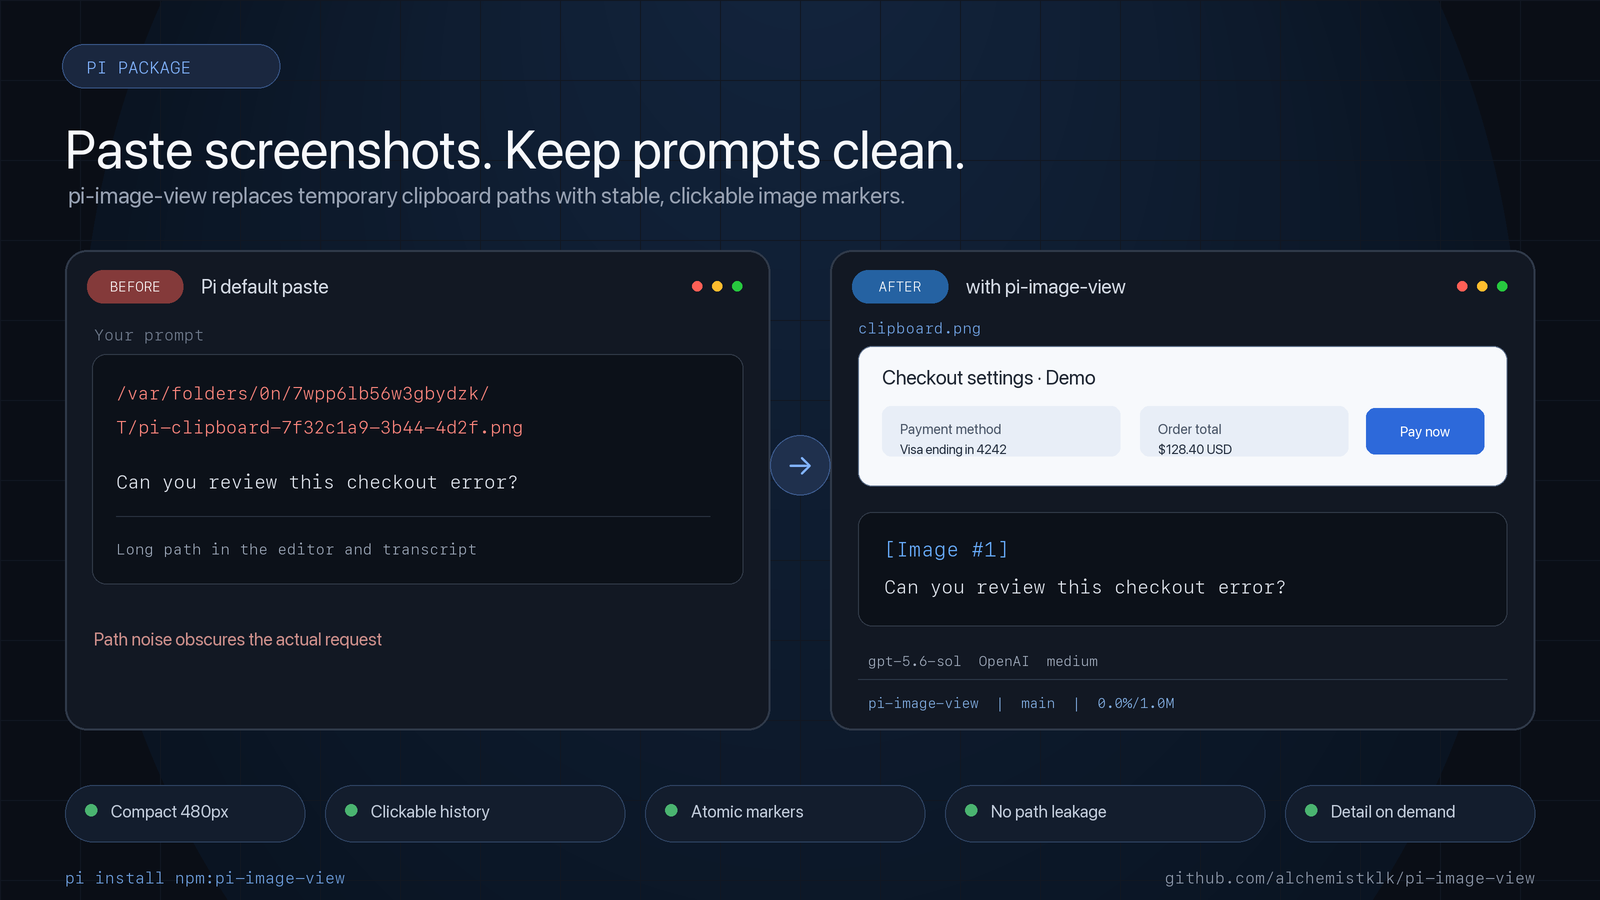
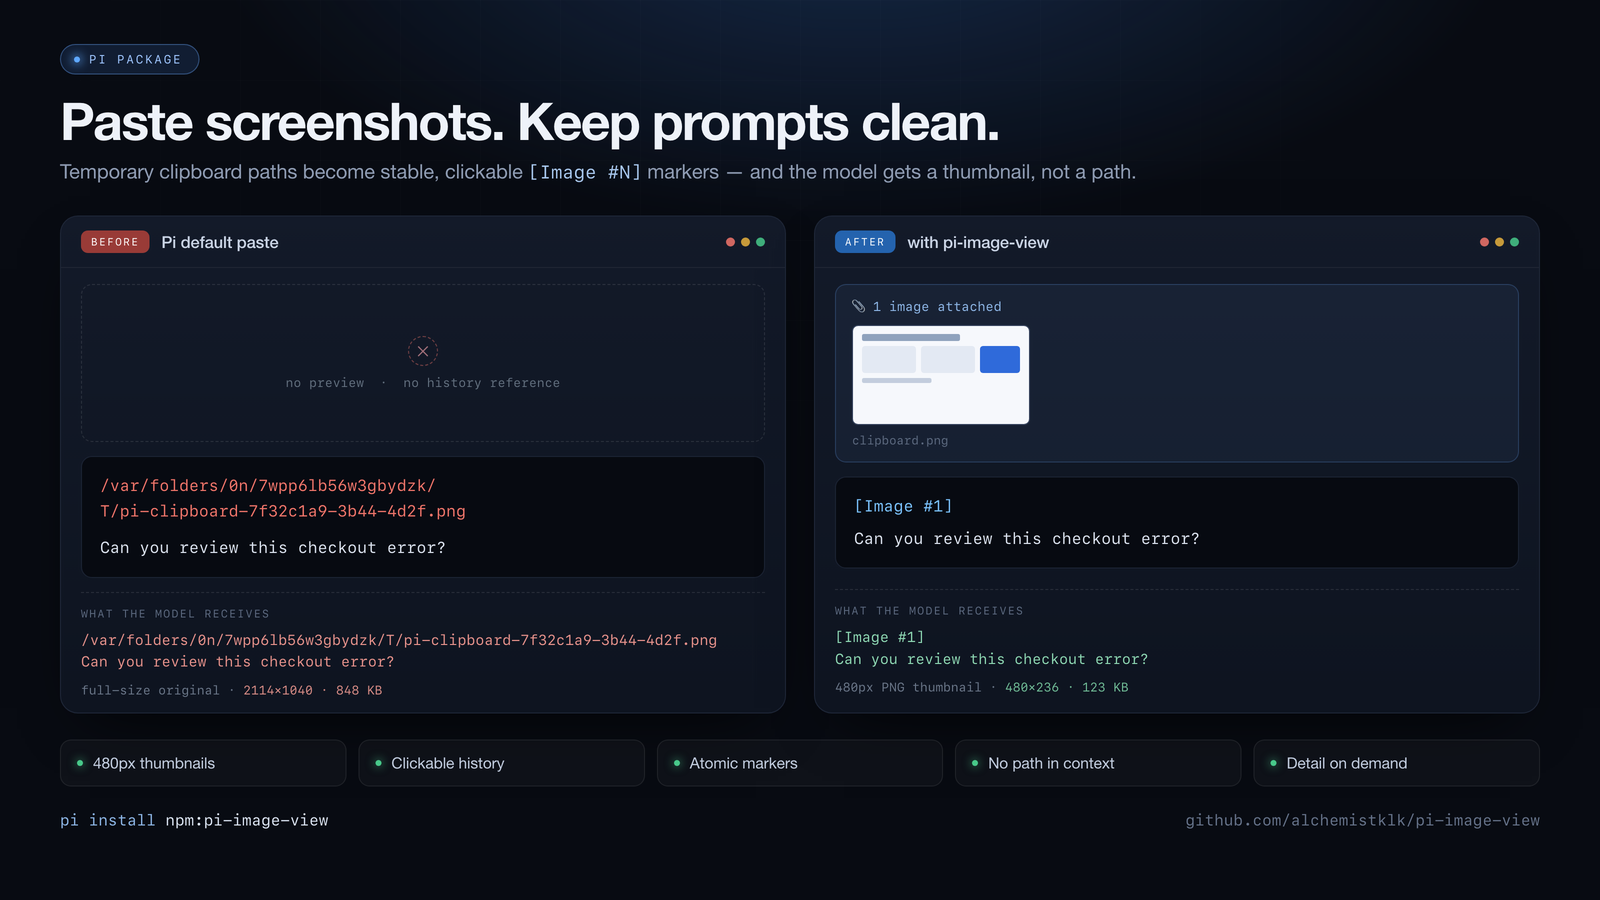
docs: rebuild the gallery image from an HTML card
Three follow-ups from reviewing #15.

The "No path leakage" chip claimed more than the README supports: the
link target is stripped from model-facing context, but a raw session
export still contains the local blob path. It now reads "No path in
context".

The generator hardcoded two macOS font paths with no fallback, so it
raised OSError anywhere else, and it drew at absolute pixel
coordinates, so a substituted font would have overlapped. The card is
now HTML/CSS with a declared fallback stack that reflows, rendered
through Chrome and downsampled from 2x. Chrome is discovered from PATH
and the usual macOS and Linux locations, with a CHROME override.

The card itself was redrawn. The two panels were unbalanced -- BEFORE
ended well above AFTER and left a large empty region. Both now carry a
"what the model receives" block, which is the actual payoff and makes
the panels the same height: the full temporary path on one side, just
[Image #1] on the other, each with the real payload figures from the
README benchmark. BEFORE's empty space became the honest contrast --
Pi's default paste has no preview and no history reference. The AFTER
thumbnail is drawn at the scale the gallery actually renders rather
than as a full-width panel.

Claude-Session: https://claude.ai/code/session_01Hgxnkioka7vSpec325P7L8

diff --git a/scripts/gallery-image.html b/scripts/gallery-image.html
@@ -1,0 +1,153 @@
+<!doctype html>
+<html><head><meta charset="utf-8"><style>
+  *{margin:0;padding:0;box-sizing:border-box}
+  :root{
+    --bg:#080b12; --edge:#1e2637; --ink:#eef2f9; --dim:#8f9cb3; --faint:#5d6a80;
+    --blue:#5fa8ff; --marker:#7cc4ff; --red:#f2766b; --green:#48c98a;
+    --mono:"SF Mono","JetBrains Mono","DejaVu Sans Mono",ui-monospace,Menlo,Consolas,monospace;
+    --sans:-apple-system,"SF Pro Display","Inter","Helvetica Neue",system-ui,"DejaVu Sans",Arial,sans-serif;
+  }
+  html,body{width:1600px;height:900px;background:var(--bg);font-family:var(--sans);
+    -webkit-font-smoothing:antialiased}
+  body{position:relative;overflow:hidden;padding:44px 60px 0}
+  .glow{position:absolute;width:1500px;height:720px;left:110px;top:-450px;
+    background:radial-gradient(ellipse at center,rgba(51,110,196,.30),transparent 62%);filter:blur(8px)}
+  .grid{position:absolute;inset:0;opacity:.5;
+    background-image:linear-gradient(rgba(255,255,255,.022) 1px,transparent 1px),
+                     linear-gradient(90deg,rgba(255,255,255,.022) 1px,transparent 1px);
+    background-size:80px 80px;
+    -webkit-mask-image:radial-gradient(ellipse 1050px 600px at 44% 10%,#000 34%,transparent 76%)}
+  .wrap{position:relative}
+
+  .badge{display:inline-flex;align-items:center;gap:9px;padding:7px 16px 7px 13px;border-radius:999px;
+    background:rgba(45,86,152,.24);border:1px solid rgba(96,150,226,.42);
+    font-family:var(--mono);font-size:12px;letter-spacing:.16em;color:#9fc6ff}
+  .badge i{width:6px;height:6px;border-radius:50%;background:var(--blue);
+    box-shadow:0 0 10px 2px rgba(95,168,255,.75)}
+  h1{margin:20px 0 0;font-size:52px;line-height:1;letter-spacing:-.032em;color:var(--ink);font-weight:600}
+  .sub{margin-top:13px;font-size:20px;color:var(--dim);letter-spacing:-.004em}
+  .sub b{color:#a9c8ee;font-weight:400;font-family:var(--mono);font-size:18.5px}
+
+  .cols{display:grid;grid-template-columns:1fr 1fr;gap:28px;margin-top:32px;height:498px}
+  .panel{background:linear-gradient(180deg,#131a29,#0e1420);border:1px solid var(--edge);
+    border-radius:18px;display:flex;flex-direction:column;overflow:hidden;
+    box-shadow:0 24px 60px -30px rgba(0,0,0,.95)}
+  .bar{display:flex;align-items:center;gap:12px;padding:14px 20px;border-bottom:1px solid rgba(255,255,255,.055)}
+  .tag{font-family:var(--mono);font-size:10.5px;letter-spacing:.15em;padding:5px 10px;border-radius:7px;color:#fff}
+  .tag.b{background:rgba(178,66,58,.85)} .tag.a{background:rgba(38,105,186,.92)}
+  .bar h2{font-size:16.5px;font-weight:500;color:#cbd5e6;letter-spacing:-.008em}
+  .dots{margin-left:auto;display:flex;gap:6px}
+  .dots span{width:9px;height:9px;border-radius:50%;opacity:.85}
+  .body{padding:16px 20px 0;display:flex;flex-direction:column;flex:1}
+
+  .term{background:#070a11;border:1px solid #1b2333;border-radius:11px;padding:16px 18px;
+    font-family:var(--mono);font-size:16px;line-height:1.6}
+  .path{color:var(--red)} .ask{color:#dde4f0} .mk{color:var(--marker)}
+
+  .attach{padding:13px 16px 14px;background:rgba(96,150,226,.07);
+    border:1px solid rgba(96,150,226,.24);border-radius:11px}
+  .clip{font-family:var(--mono);font-size:13px;color:#8fb8e8;margin-bottom:10px}
+  .thumb{width:178px;height:100px;border-radius:6px;background:#f6f8fc;border:1px solid #33405a;
+    padding:8px 9px;display:flex;flex-direction:column;gap:5px}
+  .thumb .t{height:7px;width:62%;border-radius:2px;background:#8fa2bd}
+  .thumb .row{display:flex;gap:5px}
+  .thumb .box{flex:1;height:27px;border-radius:3px;background:#e3e9f3}
+  .thumb .btn{width:40px;height:27px;border-radius:3px;background:#2f6ada}
+  .thumb .l{height:5px;width:44%;border-radius:2px;background:#c3cddd}
+  .cap{margin-top:8px;font-family:var(--mono);font-size:12px;color:var(--faint)}
+  .none{height:158px;border:1px dashed rgba(255,255,255,.10);border-radius:11px;
+    display:flex;flex-direction:column;align-items:center;justify-content:center;gap:9px}
+  .none .x{width:30px;height:30px;border-radius:50%;border:1px dashed rgba(242,118,107,.42);
+    display:flex;align-items:center;justify-content:center;color:#a2707a;font-size:15px;line-height:1}
+  .none p{font-family:var(--mono);font-size:12.5px;color:#63707f;letter-spacing:.01em}
+
+  .gap{flex:1;min-height:14px}
+  .sees{border-top:1px dashed rgba(255,255,255,.10);padding:14px 0 18px}
+  .lbl{font-family:var(--mono);font-size:11px;letter-spacing:.13em;color:var(--faint);margin-bottom:9px}
+  .val{font-family:var(--mono);font-size:14.5px;line-height:1.5}
+  .val.bad{color:#e8938c} .val.good{color:#8fd9b4}
+  .meta{margin-top:10px;font-family:var(--mono);font-size:12.5px;color:#6b7789}
+  .meta em{font-style:normal}
+  .meta.bad em{color:#d98d86} .meta.good em{color:#71bd97}
+
+  .chips{display:flex;gap:12px;margin-top:26px}
+  .chip{flex:1;display:flex;align-items:center;gap:10px;padding:13px 16px;border-radius:11px;
+    background:rgba(255,255,255,.028);border:1px solid rgba(255,255,255,.075);
+    font-size:15.5px;color:#c2cddf;letter-spacing:-.006em;white-space:nowrap}
+  .chip i{width:6px;height:6px;border-radius:50%;background:var(--green);flex:0 0 auto;
+    box-shadow:0 0 9px 1px rgba(72,201,138,.55)}
+
+  .foot{display:flex;align-items:center;margin-top:24px;font-family:var(--mono);font-size:15.5px}
+  .foot .cmd{color:#8fb8e8}.foot .cmd b{color:#dfe8f6;font-weight:400}
+  .foot .repo{margin-left:auto;color:#66738a}
+</style></head><body>
+<div class="glow"></div><div class="grid"></div>
+<div class="wrap">
+  <div class="badge"><i></i>PI PACKAGE</div>
+  <h1>Paste screenshots. Keep prompts clean.</h1>
+  <p class="sub">Temporary clipboard paths become stable, clickable <b>[Image&nbsp;#N]</b> markers — and the model gets a thumbnail, not a path.</p>
+
+  <div class="cols">
+    <div class="panel">
+      <div class="bar"><span class="tag b">BEFORE</span><h2>Pi default paste</h2>
+        <div class="dots"><span style="background:#f2766b"></span><span style="background:#e8b13d"></span><span style="background:#48c98a"></span></div></div>
+      <div class="body">
+        <div class="none">
+          <div class="x">&#10005;</div>
+          <p>no preview&nbsp;&nbsp;·&nbsp;&nbsp;no history reference</p>
+        </div>
+        <div class="term" style="margin-top:14px">
+          <div class="path">/var/folders/0n/7wpp6lb56w3gbydzk/</div>
+          <div class="path">T/pi-clipboard-7f32c1a9-3b44-4d2f.png</div>
+          <div class="ask" style="margin-top:11px">Can you review this checkout error?</div>
+        </div>
+        <div class="gap"></div>
+        <div class="sees">
+          <div class="lbl">WHAT THE MODEL RECEIVES</div>
+          <div class="val bad">/var/folders/0n/7wpp6lb56w3gbydzk/T/pi-clipboard-7f32c1a9-3b44-4d2f.png<br>Can you review this checkout error?</div>
+          <div class="meta bad">full-size original · <em>2114×1040 · 848 KB</em></div>
+        </div>
+      </div>
+    </div>
+
+    <div class="panel">
+      <div class="bar"><span class="tag a">AFTER</span><h2>with pi-image-view</h2>
+        <div class="dots"><span style="background:#f2766b"></span><span style="background:#e8b13d"></span><span style="background:#48c98a"></span></div></div>
+      <div class="body">
+        <div class="attach">
+          <div class="clip">📎 1 image attached</div>
+          <div class="thumb">
+            <div class="t"></div>
+            <div class="row"><div class="box"></div><div class="box"></div><div class="btn"></div></div>
+            <div class="l"></div>
+          </div>
+          <div class="cap">clipboard.png</div>
+        </div>
+        <div class="term" style="margin-top:14px">
+          <div class="mk">[Image #1]</div>
+          <div class="ask" style="margin-top:7px">Can you review this checkout error?</div>
+        </div>
+        <div class="gap"></div>
+        <div class="sees">
+          <div class="lbl">WHAT THE MODEL RECEIVES</div>
+          <div class="val good">[Image #1]<br>Can you review this checkout error?</div>
+          <div class="meta good">480px PNG thumbnail · <em>480×236 · 123 KB</em></div>
+        </div>
+      </div>
+    </div>
+  </div>
+
+  <div class="chips">
+    <div class="chip"><i></i>480px thumbnails</div>
+    <div class="chip"><i></i>Clickable history</div>
+    <div class="chip"><i></i>Atomic markers</div>
+    <div class="chip"><i></i>No path in context</div>
+    <div class="chip"><i></i>Detail on demand</div>
+  </div>
+
+  <div class="foot">
+    <span class="cmd">pi install <b>npm:pi-image-view</b></span>
+    <span class="repo">github.com/alchemistklk/pi-image-view</span>
+  </div>
+</div>
+</body></html>

diff --git a/scripts/generate-gallery-image.py b/scripts/generate-gallery-image.py
@@ -1,94 +1,84 @@
 #!/usr/bin/env python3
-"""Generate the privacy-safe Pi package gallery image."""
+"""Render the Pi Gallery image from scripts/gallery-image.html.
+
+The card is laid out in HTML/CSS rather than drawn at absolute pixel
+coordinates, so a host without Apple's system fonts substitutes a fallback and
+the layout reflows instead of overlapping.
+
+Requires a Chrome/Chromium binary and Pillow. Set CHROME to point at a specific
+binary when auto-detection picks the wrong one.
+"""
+import os
+import shutil
+import subprocess
+import sys
+import tempfile
 from pathlib import Path
-from PIL import Image, ImageDraw, ImageFont
+
+from PIL import Image
 
 ROOT = Path(__file__).resolve().parents[1]
-SCALE = 2
-W, H = 1600 * SCALE, 900 * SCALE
+SOURCE = ROOT / "scripts" / "gallery-image.html"
+TARGET = ROOT / "screenshot.png"
+WIDTH, HEIGHT, SCALE = 1600, 900, 2
 
-def font(path, size): return ImageFont.truetype(path, size * SCALE)
-SANS = "/System/Library/Fonts/SFNS.ttf"
-MONO = "/System/Library/Fonts/SFNSMono.ttf"
+CANDIDATES = (
+    "/Applications/Google Chrome.app/Contents/MacOS/Google Chrome",
+    "/Applications/Chromium.app/Contents/MacOS/Chromium",
+    "/usr/bin/google-chrome",
+    "/usr/bin/chromium",
+    "/usr/bin/chromium-browser",
+    "/snap/bin/chromium",
+)
 
-def text(draw, xy, value, *, size=24, color=(224,229,238), mono=False, anchor=None):
-    draw.text((xy[0]*SCALE,xy[1]*SCALE),value,font=font(MONO if mono else SANS,size),fill=color,anchor=anchor)
 
-def rr(draw, box, radius, fill, outline=None, width=1):
-    draw.rounded_rectangle(tuple(v*SCALE for v in box),radius=radius*SCALE,fill=fill,outline=outline,width=width*SCALE)
+def find_chrome() -> str:
+    override = os.environ.get("CHROME")
+    if override:
+        if not Path(override).exists():
+            sys.exit(f"CHROME is set to {override!r}, which does not exist.")
+        return override
+    for name in ("google-chrome", "google-chrome-stable", "chromium", "chromium-browser"):
+        found = shutil.which(name)
+        if found:
+            return found
+    for path in CANDIDATES:
+        if Path(path).exists():
+            return path
+    sys.exit(
+        "No Chrome or Chromium binary found. Install one, or set CHROME to its path."
+    )
 
-def line(draw, points, fill, width=1): draw.line(tuple(v*SCALE for point in points for v in point),fill=fill,width=width*SCALE)
 
-img=Image.new("RGB",(W,H),(10,14,22));d=ImageDraw.Draw(img)
-# subtle blue glow and grid
-for radius in range(720,40,-20):
-    alpha=(720-radius)/720
-    color=(10+int(10*alpha),20+int(18*alpha),34+int(30*alpha))
-    d.ellipse(((800-radius)*SCALE,(-210-radius//3)*SCALE,(800+radius)*SCALE,(-210+radius*2)*SCALE),fill=color)
-for x in range(0,1601,80): line(d,[(x,0),(x,900)],(17,23,34))
-for y in range(0,901,80): line(d,[(0,y),(1600,y)],(17,23,34))
+def main() -> None:
+    if not SOURCE.exists():
+        sys.exit(f"Missing {SOURCE.relative_to(ROOT)}")
+    chrome = find_chrome()
+    with tempfile.TemporaryDirectory() as work:
+        raw = Path(work) / "raw.png"
+        subprocess.run(
+            [
+                chrome,
+                "--headless",
+                "--disable-gpu",
+                "--hide-scrollbars",
+                f"--force-device-scale-factor={SCALE}",
+                f"--window-size={WIDTH},{HEIGHT}",
+                f"--screenshot={raw}",
+                SOURCE.as_uri(),
+            ],
+            check=True,
+            capture_output=True,
+        )
+        if not raw.exists():
+            sys.exit("Chrome exited without writing a screenshot.")
+        # Rendering at 2x and downsampling keeps the text crisp at gallery size.
+        with Image.open(raw) as shot:
+            shot.convert("RGB").resize(
+                (WIDTH, HEIGHT), Image.Resampling.LANCZOS
+            ).save(TARGET, optimize=True)
+    print(f"{TARGET.relative_to(ROOT)}  {TARGET.stat().st_size:,} bytes  {WIDTH}x{HEIGHT}")
 
-rr(d,(62,44,280,88),22,(26,39,63),outline=(57,87,137))
-text(d,(86,57),"PI PACKAGE",size=17,color=(130,180,255),mono=True)
-text(d,(65,116),"Paste screenshots. Keep prompts clean.",size=54,color=(247,249,252))
-text(d,(68,181),"pi-image-view replaces temporary clipboard paths with stable, clickable image markers.",size=23,color=(151,161,178))
 
-PANEL_Y1,PANEL_Y2=250,730
-
-def panel(x1,x2,label,title,accent):
-    rr(d,(x1,PANEL_Y1,x2,PANEL_Y2),22,(18,24,35),outline=(48,58,74),width=2)
-    rr(d,(x1+22,PANEL_Y1+20,x1+118,PANEL_Y1+53),16,accent)
-    text(d,(x1+70,PANEL_Y1+36),label,size=14,color=(255,255,255),mono=True,anchor="mm")
-    text(d,(x1+136,PANEL_Y1+24),title,size=20,color=(213,219,229))
-    for i,c in enumerate([(255,95,86),(255,189,46),(39,201,63)]): d.ellipse(((x2-78+i*20)*SCALE,(PANEL_Y1+31)*SCALE,(x2-68+i*20)*SCALE,(PANEL_Y1+41)*SCALE),fill=c)
-
-panel(65,770,"BEFORE","Pi default paste",(132,58,58))
-panel(830,1535,"AFTER","with pi-image-view",(37,98,162))
-
-# Before editor
-text(d,(94,325),"Your prompt",size=16,color=(113,124,142),mono=True)
-rr(d,(92,354,743,584),14,(12,17,25),outline=(50,59,73))
-text(d,(116,382),"/var/folders/0n/7wpp6lb56w3gbydzk/",size=18,color=(255,135,126),mono=True)
-text(d,(116,416),"T/pi-clipboard-7f32c1a9-3b44-4d2f.png",size=18,color=(255,135,126),mono=True)
-text(d,(116,470),"Can you review this checkout error?",size=19,color=(225,230,238),mono=True)
-line(d,[(116,516),(710,516)],(42,51,64))
-text(d,(116,540),"Long path in the editor and transcript",size=15,color=(158,169,186),mono=True)
-text(d,(94,628),"Path noise obscures the actual request",size=18,color=(205,143,139))
-
-# After preview widget
-text(d,(858,319),"clipboard.png",size=15,color=(115,166,232),mono=True)
-rr(d,(858,346,1507,486),14,(247,249,252),outline=(92,111,138))
-text(d,(882,365),"Checkout settings · Demo",size=20,color=(30,38,50))
-rr(d,(882,406,1120,456),9,(232,238,247))
-text(d,(900,420),"Payment method",size=14,color=(73,85,103))
-text(d,(900,441),"Visa ending in 4242",size=13,color=(35,46,62))
-rr(d,(1140,406,1348,456),9,(232,238,247))
-text(d,(1158,420),"Order total",size=14,color=(73,85,103))
-text(d,(1158,441),"$128.40 USD",size=13,color=(35,46,62))
-rr(d,(1366,408,1484,454),9,(45,105,218))
-text(d,(1425,431),"Pay now",size=14,color=(255,255,255),anchor="mm")
-
-# After editor and status
-rr(d,(858,512,1507,626),14,(12,17,25),outline=(50,59,73))
-text(d,(884,537),"[Image #1]",size=20,color=(105,174,255),mono=True)
-text(d,(884,575),"Can you review this checkout error?",size=19,color=(225,230,238),mono=True)
-text(d,(868,652),"gpt-5.6-sol  OpenAI  medium",size=14,color=(163,174,191),mono=True)
-line(d,[(858,679),(1507,679)],(45,56,72))
-text(d,(868,694),"pi-image-view  |  main  |  0.0%/1.0M",size=14,color=(132,177,230),mono=True)
-
-# comparison arrow
-rr(d,(770,435,830,495),30,(31,48,77),outline=(62,93,145))
-text(d,(800,465),"→",size=30,color=(130,180,255),anchor="mm")
-
-# Feature chips
-chips=[("Compact 480px",65,305),("Clickable history",325,625),("Atomic markers",645,925),("No path leakage",945,1265),("Detail on demand",1285,1535)]
-for label,x1,x2 in chips:
-    rr(d,(x1,785,x2,842),28,(19,29,45),outline=(48,69,101))
-    d.ellipse(((x1+20)*SCALE,804*SCALE,(x1+32)*SCALE,816*SCALE),fill=(74,180,112))
-    text(d,(x1+46,801),label,size=17,color=(194,204,219))
-
-text(d,(65,868),"pi install npm:pi-image-view",size=16,color=(111,161,225),mono=True)
-text(d,(1535,868),"github.com/alchemistklk/pi-image-view",size=16,color=(143,154,172),mono=True,anchor="ra")
-
-img.resize((1600,900),Image.Resampling.LANCZOS).save(ROOT/"screenshot.png",optimize=True)
-print(ROOT/"screenshot.png")
+if __name__ == "__main__":
+    main()

diff --git a/scripts/README.md b/scripts/README.md
@@ -1,0 +1,28 @@
+# Maintainer scripts
+
+## `generate-gallery-image.py`
+
+Renders `screenshot.png` — the image used by the Pi package gallery
+(`pi.image` in `package.json`) and as the README hero — from
+`gallery-image.html`.
+
+```bash
+python3 scripts/generate-gallery-image.py
+```
+
+**Requirements:** Python 3 with [Pillow](https://pypi.org/project/Pillow/)
+(`pip install Pillow`) and a Chrome or Chromium binary. The script checks `PATH`
+and the usual macOS and Linux install locations; set `CHROME` to override.
+
+Edit the card by editing `gallery-image.html` — open it directly in a browser to
+preview. The layout is CSS, not absolute coordinates, so a host missing Apple's
+system fonts substitutes from the declared fallback stack and the layout reflows
+rather than overlapping.
+
+Output is deterministic on a given host at 1600×900. It is **not** byte-stable
+across machines, because text rasterization depends on the available fonts and
+the Chrome version. Regenerate and commit `screenshot.png` whenever the card
+changes.
+
+`pi.image` points at `main`, so a regenerated image goes live as soon as it is
+merged — no release required.
